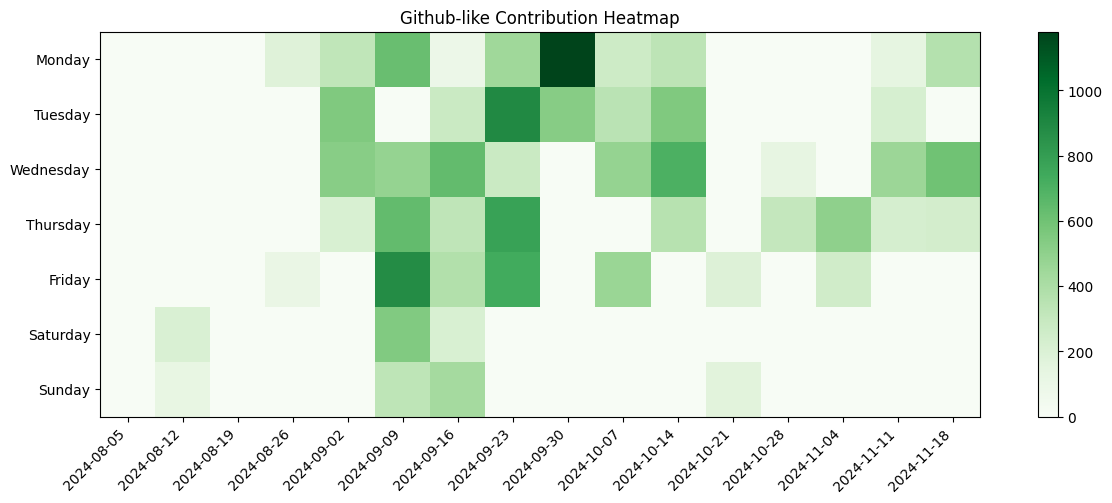
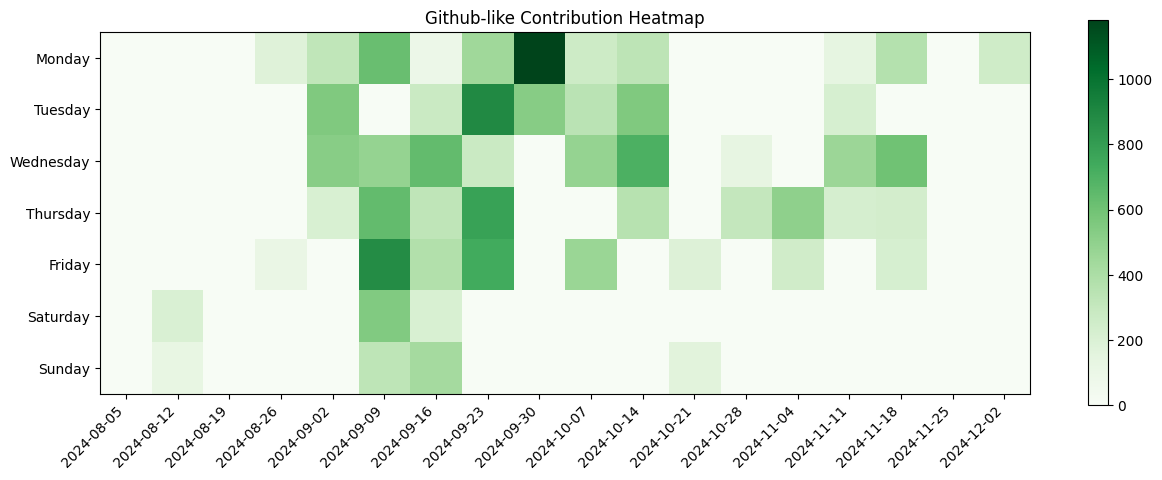
Update

diff --git a/README.md b/README.md
@@ -49,4 +49,6 @@
 20241118 211.30 (7.52-0.70)*31   155.04 (6.70-0.96)*27
 20241120 371.36 (6.93-0.64)*59   229.35 (6.68-0.65)*38
 20241121 167.77 (6.65-1.23)*31   68.78 (7.10-0.22)*10
+20241122 218.53 (7.09-0.47)*33
+20241202 146.04 (6.37-0.96)*27   110.50 (5.31-1.50)*29
 ```
